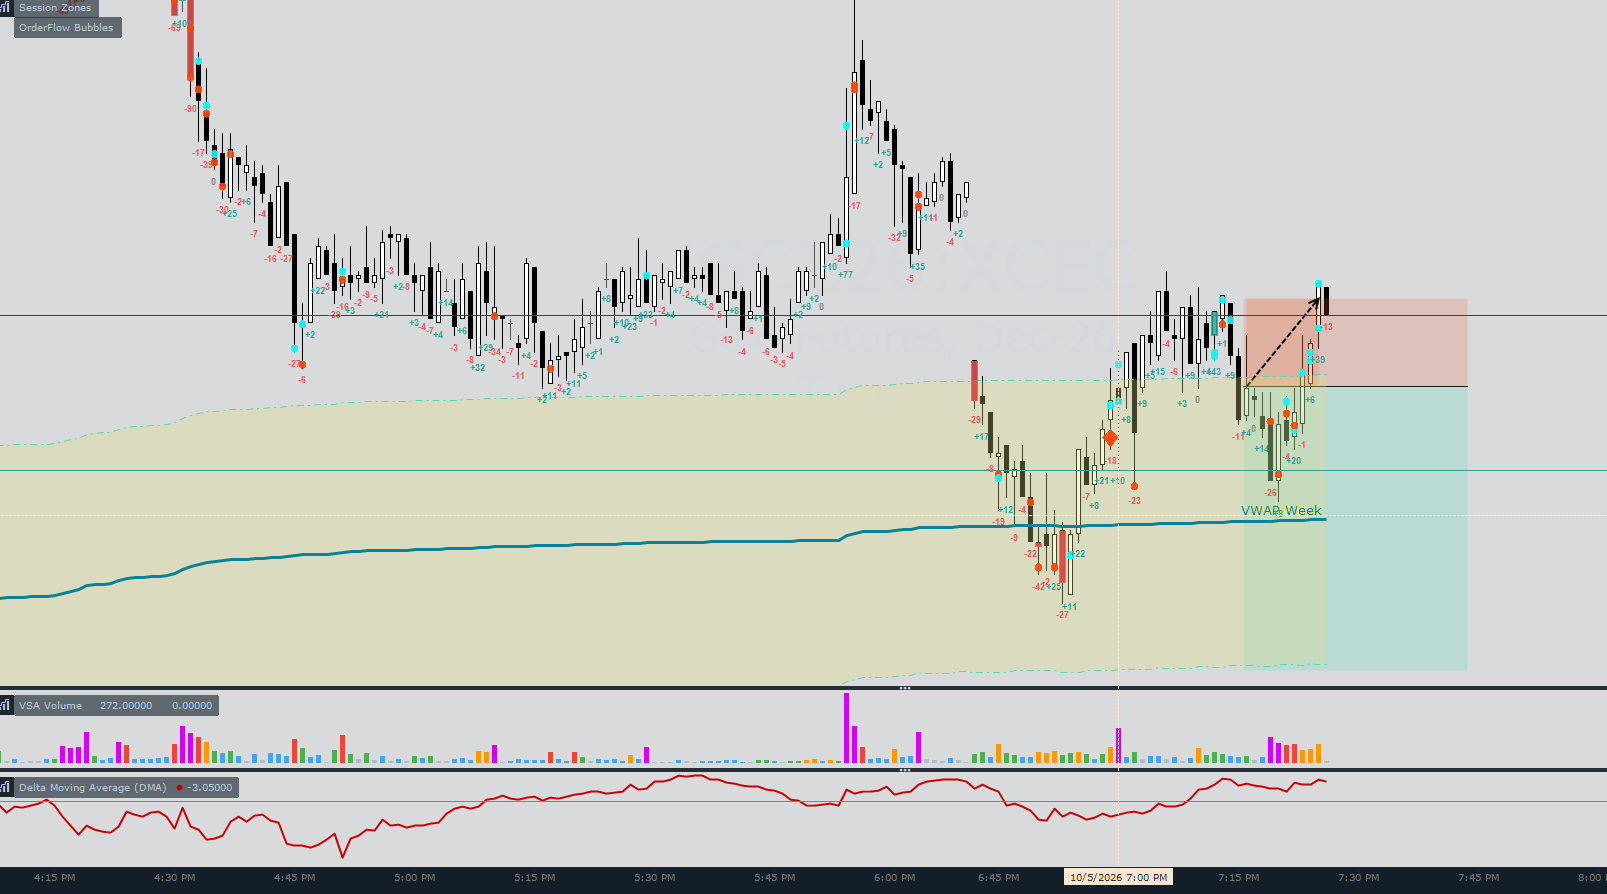
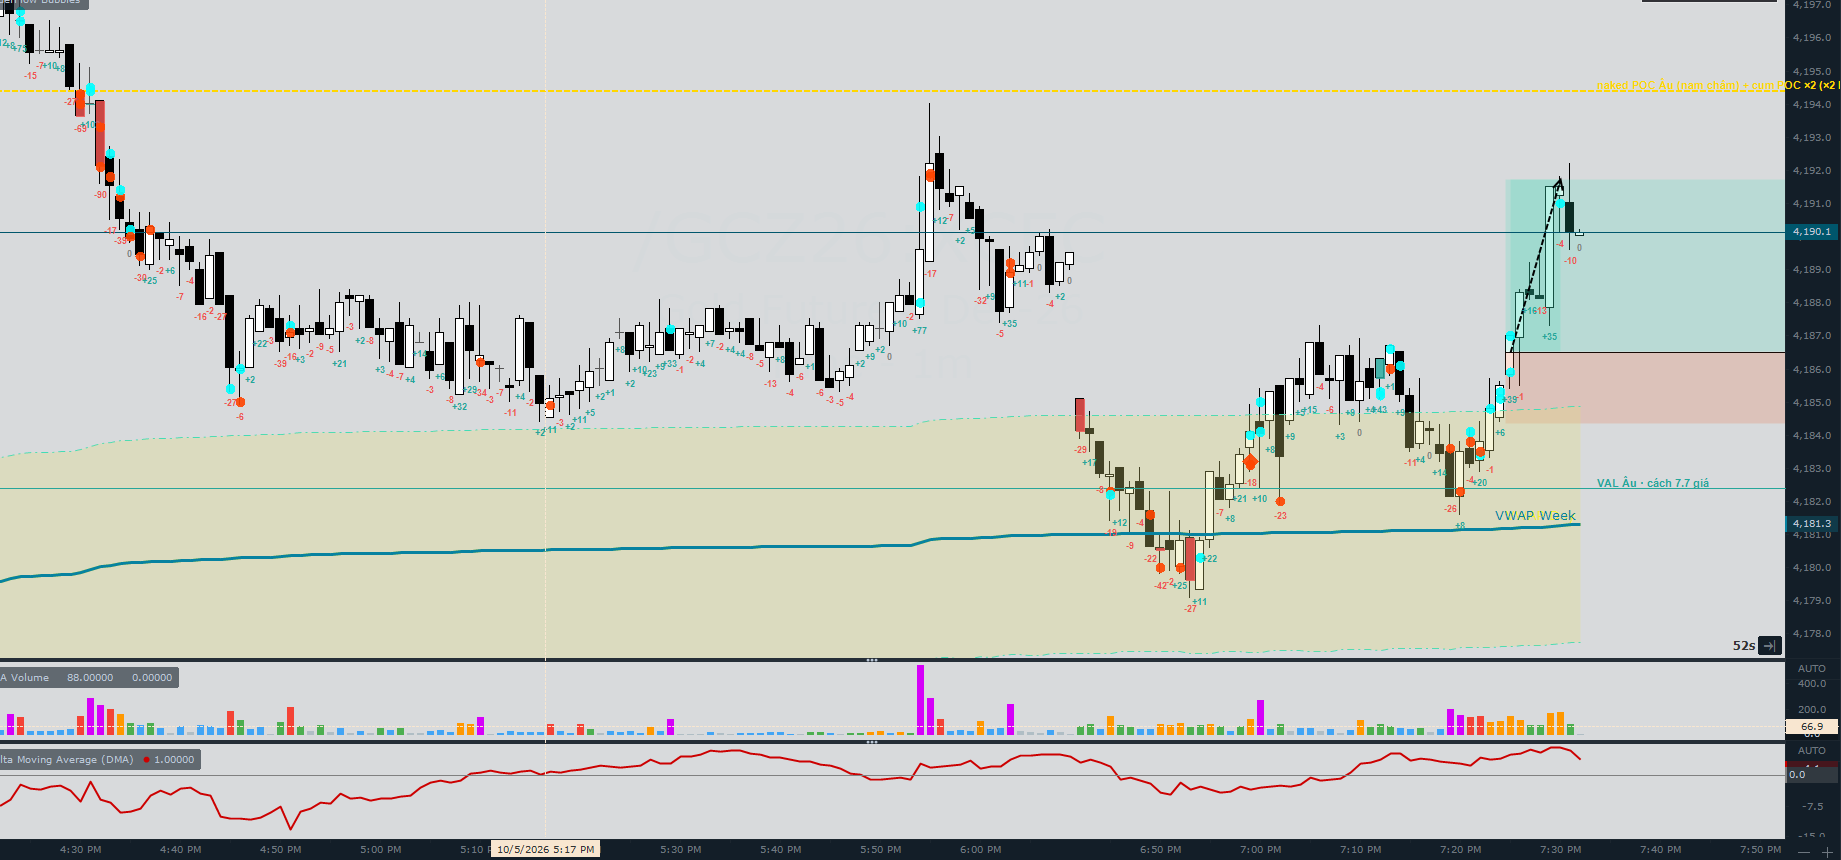
Sua anh ca dung 5/10 (nham anh lenh Sell)

Changed region(s): [[0.0, 0.0, 1.0, 0.9977], [0.0, 0.6651, 0.0311, 0.6953]]

diff --git a/index.html b/index.html
@@ -527,8 +527,8 @@ figcaption b{color:var(--fg)}
 <figcaption><span class="pill ok">ĐÚNG</span> <b>6/10 20:25.</b> Nến −129 phá cạnh, hồi thoải 3–4 nến, nến xác nhận giảm. Sell 4192,5 → 4185, +3R.</figcaption></figure>
 <figure><a class="shot" href="he-thong-img/sai-da-tuong-la-hap-thu.png" target="_blank" rel="noopener"><img src="he-thong-img/sai-da-tuong-la-hap-thu.png" width="1475" height="855" loading="lazy" alt="Chart M1 ngày 30/9 lúc 22:10: chuỗi nến giảm −51, −65, −77 thân dài dần, buy “hấp thụ sell” tại VWAP tuần, dính SL"></a>
 <figcaption><span class="pill no">SAI</span> <b>30/9 22:10.</b> −51, −65, −77 thân dài dần là đà, nhưng bị gọi là hấp thụ. Phạm 4.2.</figcaption></figure>
-<figure><a class="shot" href="he-thong-img/dung-hap-thu-hinh-u.png" target="_blank" rel="noopener"><img src="he-thong-img/dung-hap-thu-hinh-u.png" width="1607" height="894" loading="lazy" alt="Chart M1 ngày 5/10 lúc 19:30: sau cú rơi về 4179, giá đi ngang nhiều nến ngắn rồi nến xác nhận tăng, buy hấp thụ sell chốt 2R"></a>
-<figcaption><span class="pill ok">ĐÚNG</span> <b>5/10 19:30.</b> Đáy đi ngang bằng nến ngắn (hình U), rồi nến xác nhận. Buy, +2R. Chính bạn đã ghi “V/U” ở trang nhật ký này.</figcaption></figure>
+<figure><a class="shot" href="he-thong-img/dung-hap-thu-hinh-u.png" target="_blank" rel="noopener"><img src="he-thong-img/dung-hap-thu-hinh-u.png" width="1841" height="860" loading="lazy" alt="Chart M1 ngày 5/10 lúc 19:25: sau cú rơi về 4179, đáy đi ngang bằng nến ngắn rồi đẩy lên; buy hấp thụ sell tại 4187, giá lên 4192, chốt 2R"></a>
+<figcaption><span class="pill ok">ĐÚNG</span> <b>5/10 19:25.</b> Đáy 4179 đi ngang bằng nến ngắn (+11, +22, +8) thay vì bật thẳng, rồi mới đẩy lên; vào ở cú test lại 4184–4187. Buy → 4192, +2R. Cùng trang nhật ký này bạn đã tự ghi định nghĩa V/U.</figcaption></figure>
 <figure><a class="shot" href="he-thong-img/sai-sl-qua-hep.png" target="_blank" rel="noopener"><img src="he-thong-img/sai-sl-qua-hep.png" width="1838" height="901" loading="lazy" alt="Chart M1 ngày 1/10 lúc 20:48: sell tại 4193,8 với SL 4195,0, cách 1,2 giá trong khi nến quanh đó cao 2–3 giá, bị quét"></a>
 <figcaption><span class="pill no">SAI</span> <b>1/10 20:48.</b> Sell 4193,8, SL 4195,0 (1,2 giá) trong khi nến −78 trước đó cao 3 giá. Ý tưởng đúng (giá sau đó rơi 12 giá), SL sai.</figcaption></figure>
 <figure><a class="shot" href="he-thong-img/dung-buy-hop-luu-lvn-poc.png" target="_blank" rel="noopener"><img src="he-thong-img/dung-buy-hop-luu-lvn-poc.png" width="1856" height="801" loading="lazy" alt="Chart M1 ngày 13/10 lúc 20:10: buy tại hợp lưu LVN ngày và POC/HVN hôm qua sau nến xác nhận, giá chạy lên 4211, chốt 3R"></a>
